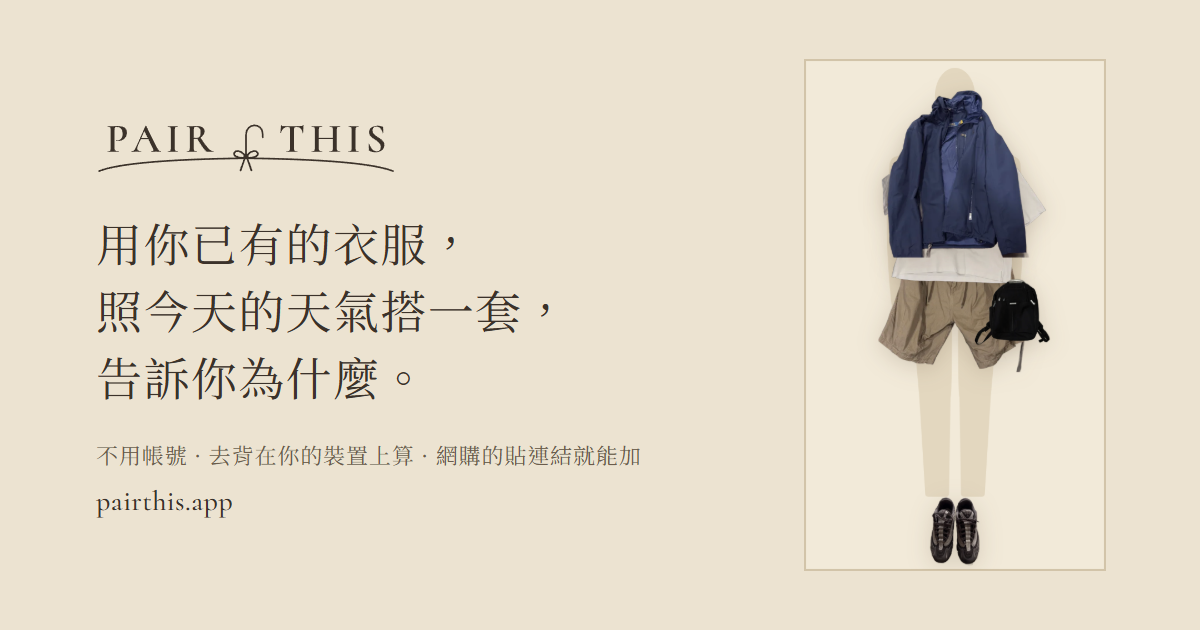
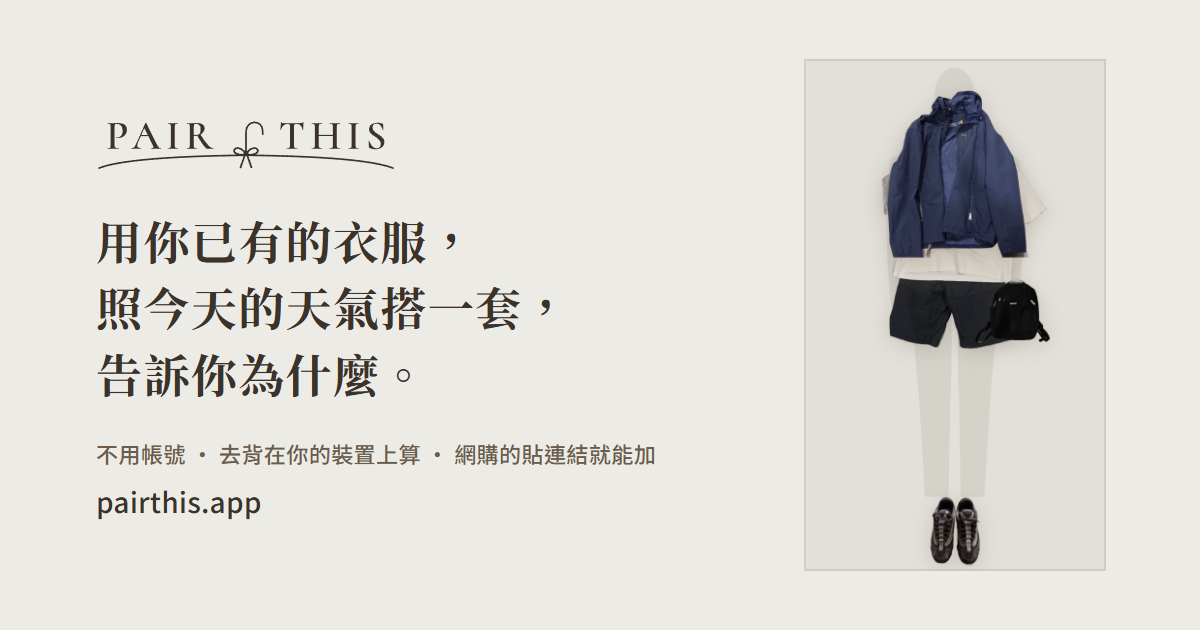
分享預覽圖照新字體和淡石灰重出,版面和文字沒改;og:image 版本改 20261105,平台才不會用快取的舊圖

diff --git a/index.html b/index.html
@@ -12,7 +12,7 @@
     <meta name="apple-mobile-web-app-title" content="PairThis" />
     <meta name="description" content="用你已有的衣服，照今天的天氣搭一套，告訴你為什麼。不用帳號，去背在你的裝置上算。" />
     <!-- 分享預覽(2026-10-23 本人「傳連結時更能清楚表達網站資訊」):以前沒有 og 標籤,LINE 只抓得到正方形的主畫面圖示,兩邊灰條。
-         og.png 是 1200×630,左邊標題三句、右邊示範人台(work/preview-2026-10-23-brand/og/make-og.mjs 產的)。
+         og.png 是 1200×630,左邊標題三句、右邊示範人台(work/preview-2026-11-05-og/make-og.mjs 產的)。
          網址要寫完整的 https://pairthis.app/…,LINE、FB 不吃相對路徑 -->
     <meta property="og:type" content="website" />
     <meta property="og:site_name" content="PairThis 搭這件" />
@@ -20,7 +20,7 @@
     <meta property="og:url" content="https://pairthis.app/" />
     <meta property="og:title" content="PairThis 搭這件｜照天氣配一套" />
     <meta property="og:description" content="用你已有的衣服，照今天的天氣搭一套，告訴你為什麼。不用帳號，去背在你的裝置上算，網購的貼商品連結就能加。" />
-    <meta property="og:image" content="https://pairthis.app/og.png?v=20261024" />
+    <meta property="og:image" content="https://pairthis.app/og.png?v=20261105" />
     <meta property="og:image:width" content="1200" />
     <meta property="og:image:height" content="630" />
     <meta property="og:image:alt" content="PairThis 搭這件：左邊是 PAIR THIS 標誌和「用你已有的衣服，照今天的天氣搭一套，告訴你為什麼。」右邊是穿著一套示範穿搭的人台" />
